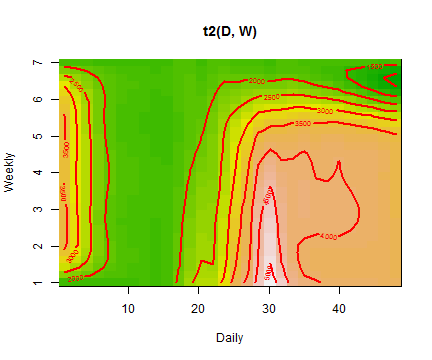
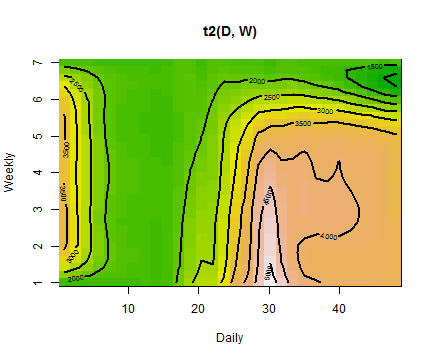
grammar checked by love

diff --git a/_posts/2017-01-20-Analyzing-double-seasonal-time-series-with-GAM.md b/_posts/2017-01-20-Analyzing-double-seasonal-time-series-with-GAM.md
@@ -1,53 +1,50 @@
 ---
-title: Doing "magic" and analyzing double seasonal time series with GAM (Generalized
-  Additive Model) in R
-author: "Peter Laurinec"
 layout: post
+title: Doing "magic" and analyzing double seasonal time series with GAM (Generalized Additive Model) in R
+author: Peter Laurinec
 published: true
 status: publish
 tags: test
-draft: no
+draft: false
 ---
  
-As I wrote in the previous post, I will continue in describing **regression** methods, which are suitable to double seasonal (or multi-seasonal) **time series**. In the previous post about [Multiple Linear Regression](https://petolau.github.io/Forecast-double-seasonal-time-series-with-multiple-linear-regression-in-R/), I showed how to use "simple" [**OLS**](https://en.wikipedia.org/wiki/Ordinary_least_squares) regression method to model **double seasonal time series** of electricity consumption and use it for accurate forecasting. Interactions between two seasonal variables were successfully used to achieve this goal. The issue of [forecasting time series from smart meters](https://petolau.github.io/Forecast-electricity-consumption-with-similar-day-approach-in-R/) was discussed in my first post.
+As I wrote in the previous post, I will continue in describing **regression** methods, which are suitable for double seasonal (or multi-seasonal) **time series**. In the previous post about [Multiple Linear Regression](https://petolau.github.io/Forecast-double-seasonal-time-series-with-multiple-linear-regression-in-R/), I showed how to use "simple" [**OLS**](https://en.wikipedia.org/wiki/Ordinary_least_squares) regression method to model **double seasonal time series** of electricity consumption and use it for accurate forecasting. Interactions between two seasonal variables were successfully used to achieve this goal. The issue of [forecasting time series from smart meters](https://petolau.github.io/Forecast-electricity-consumption-with-similar-day-approach-in-R/) was discussed in my first post.
  
-In this post (tutorial), I will fully introduce "magical" [**Generalized Additive Model**](https://en.wikipedia.org/wiki/Generalized_additive_model) (GAM) to model time series of electricity consumption. You are maybe asking, why words "*magic*" or "*magical*" are mentioned? You will see in continuation of this post :wink:
+In this post (tutorial), I will fully introduce a "magical" [**Generalized Additive Model**](https://en.wikipedia.org/wiki/Generalized_additive_model) (GAM) to model time series of electricity consumption. You may wonder, why words "*magic*" or "*magical*" are mentioned? You will get your answer later in this post :wink:
  
-Now I have to warn you that this blog post is very long. **GAM** is a very complex method and I wanted to go little bit deeply in order to introduce you this interesting regression method. I think it will be worth it and in the end of the post, I hope you will understand a theory behind **R** functions. In my opinion, **R** blogging (or any data mining or machine learning blogging) without theory interpretation of used methods has zero informative value for a reader.
+Now I have to warn you that this blog post is very long. **GAM** is a very complex method and I wanted to go little bit deeper in order to show you this interesting regression method. I think it will be worth it and in the end of the post, I hope you will understand the theory behind **R** functions. In my opinion, **R** blogging (or any data mining or machine learning blogging) without theory interpretation of used methods has zero informative value for a reader.
  
-So, let's look under the roof of the **GAM** regression method. I think you need some motivation to it, here it is!
+So, let's look under the roof of the **GAM** regression method. I think you need some motivation to it – here it is!
  
 ![](/images/motivate.png)
  
-### Theory behind Generalized Additive Model (GAM) 
+### Theory behind Generalized Additive Model (GAM)
  
-What these three words (or letters) in the name of this method mean and where it comes from? I am sure that you know something about **Linear Model** (maybe because you had read my [previous post about MLR](https://petolau.github.io/Forecast-double-seasonal-time-series-with-multiple-linear-regression-in-R/) :relaxed:). It is simple regression method which model response (dependent) variable by independent variable(s). It's solved by OLS method. So we now know what is **M** in the name. When we want to linearly model response variable which is not from [normal Gaussian distribution](https://en.wikipedia.org/wiki/Normal_distribution), for example, it can be binary (logistic regression) or discrete (Poisson) variable, we can use a generalization of the linear model - [Generalized Linear Model](https://en.wikipedia.org/wiki/Generalized_linear_model) (GLM). It's solved by [iteratively reweighted least squares](https://en.wikipedia.org/wiki/Iteratively_reweighted_least_squares) (IRLS) method. **G** in the name is also solved. **A** letter, so [Additive Model](https://en.wikipedia.org/wiki/Additive_model), means that response variable depends linearly on unknown smooth functions. In the other words, the goal is to model response variable by independent variables, which are in the form of some smooth functions. Voilà, **GAM** is created.
+What do these three words (or letters) in the name of this method mean and where does it come from? I am sure that you know something about **Linear Model** (maybe because you had read my [previous post about MLR](https://petolau.github.io/Forecast-double-seasonal-time-series-with-multiple-linear-regression-in-R/) :relaxed:). It is a simple regression method which models the response (dependent) variable by independent variable(s). It's solved by the OLS method. So now we know, what the **M** in the name means. When we want to linearly model a response variable which is not from [normal Gaussian distribution](https://en.wikipedia.org/wiki/Normal_distribution), for example, it can be binary (logistic regression) or discrete (Poisson) variable, we can use a generalization of the linear model - [Generalized Linear Model](https://en.wikipedia.org/wiki/Generalized_linear_model) (GLM). It's solved by the [iteratively reweighted least squares](https://en.wikipedia.org/wiki/Iteratively_reweighted_least_squares) (IRLS) method. The **G** in the name is also clear. The **A** letter [Additive Model](https://en.wikipedia.org/wiki/Additive_model), means that the response variable depends linearly on unknown smooth functions. In the other words, the goal is to model the response variable by independent variables, which are in the form of some smooth functions. Voilà, **GAM** is created.
  
 The GAM can be formally written as:
  
-$$g(E(y_i)) = \beta_0 + f_1(x_{i1}) + \dots + f_p(x_{ip}) + \varepsilon_i,$$
-$$y_i \sim \mbox{some exponential family distribution,}$$
+$$g(E(y_i)) = \beta_0 + f_1(x_{i1}) + \dots + f_p(x_{ip}) + \varepsilon_i, \hspace{0.1 cm} y_i \sim \mbox{some exponential family distribution,}$$
  
 where \\( i = 1, \dots, N \\), \\( g \\) is a link function (identical, logarithmic or inverse), \\( y \\) is a response variable, \\( x_1, \dots, x_p \\) are independent variables, \\( \beta_0 \\) is an intercept, \\( f_1, \dots, f_p \\) are unknown smooth functions and \\( \varepsilon \\) is an i.i.d. random error.
  
-The smooth function \\( f \\) is composed by sum of basis functions \\( b \\) and theirs corresponding regression coefficients \\( \beta \\), formally written:
+The smooth function \\( f \\) is composed by sum of basis functions \\( b \\) and their corresponding regression coefficients \\( \beta \\), formally written:
  
-$$f(x) = \sum_{i = 1}^q b_i(x)\beta_i,$$
-$$\mbox{ where } q \mbox{ is basis dimension.}$$
+$$f(x) = \sum_{i = 1}^q b_i(x)\beta_i, \mbox{ where } q \mbox{ is basis dimension.}$$
  
-Smooth functions are also called [splines](https://en.wikipedia.org/wiki/Spline_(mathematics)). [Smoothing splines](https://en.wikipedia.org/wiki/Smoothing_spline) are real functions that are piecewise-defined by polynomial functions (basis functions). The places where the polynomial pieces connect are called knots. In **GAMs**, penalized regression splines are used in order to regularize the smoothness of a spline.
+Smooth functions are also called [splines](https://en.wikipedia.org/wiki/Spline_(mathematics)). [Smoothing splines](https://en.wikipedia.org/wiki/Smoothing_spline) are real functions that are piecewise-defined by polynomial functions (basis functions). The places, where the polynomial pieces connect are called knots. In **GAMs**, penalized regression splines are used in order to regularize the smoothness of a spline.
  
-It follows that model can be written in a linear way like this:
+Therefore, the model can be written in a linear way like this:
  
 $$g(E(y)) = \beta\mathbf{X} + \varepsilon,$$
  
 where \\( \mathbf{X} \\) is a model matrix and \\( \beta \\) is a vector of regression coefficients.
  
-Than objective function to be minimized is:
+Then, the objective function to be minimized is:
  
 $$\parallel y - \beta\mathbf{X}\parallel^2 + \lambda\int_0^1 [f^{''}(x)]^2dx,$$
  
-where \\( \lambda \\) is smoothing parameter and the integral of squares of second derivatives can be written as:
+where \\( \lambda \\) is a smoothing parameter and the integral of squares of second derivatives can be written as:
  
 $$\int_0^1 [f^{''}(x)]^2dx = \beta^T\mathbf{S}\beta,$$
  
@@ -60,7 +57,7 @@ $$\hat{\beta} = (\mathbf{X}^T\mathbf{X} + \lambda\mathbf{S})^{-1}\mathbf{X}^Ty.$
 \\( \hat{\beta} \\) is called penalized least squares estimator in this case.
 The method of obtaining the estimate of the \\( \beta \\) is called Penalized Iteratively Re-weighted Least Squares (P-IRLS).
  
-Have you already enough of this post? I would no wonder...you can skip this section whenever you want, but there are next important theoretical questions to answer. For example, what kind of smoothing splines exists? Or, how to choose optimally smoothing parameter \\( \lambda \\)? How is set basis dimensions (or a number of knots)?
+There are some more important theoretical questions to answer. For example, what kind of smoothing splines exists? Or, how to choose an optimal smoothing parameter \\( \lambda \\)? How basis dimensions (or a number of knots) are set?
  
 There are several smoothing bases (splines) which are suitable for regression:
  
@@ -69,17 +66,17 @@ There are several smoothing bases (splines) which are suitable for regression:
 * cyclic cubic regression spline
 * P-splines
  
-You can then read more about them in references, which I will write up. In this post, for daily seasonality cubic regression spline, and for weekly seasonality P-splines will be used. Both types of splines are knot-based, so choosing a right number of knots will be important.
+You can read more about them in references, which I will write up. In this post, for daily seasonality cubic regression spline, and for weekly seasonality P-splines will be used. Both types of splines are knot-based, so choosing a right number of knots will be important.
  
-Next, an important procedure is to choose (estimate) optimal smoothing parameter \\( \lambda \\) and the number of basis dimensions (i.e. degrees of freedom). This can be done in **GAM** by Generalized Cross Validation score (GCV). It minimizes an equation:
+Next, an important procedure is to choose (estimate) an optimal smoothing parameter \\( \lambda \\) and the number of basis dimensions (i.e. degrees of freedom). This can be done in **GAM** by Generalized Cross Validation score (GCV). It minimizes an equation:
  
 $$\nu_g = \frac{n\sum_{i=1}^n (y_i - \hat{f}_i)^2}{[tr(\mathbf{I} - \mathbf{A})]^2},$$
  
-where \\( \mathbf{A} \\) is the influence or hat matrix. It's obvious that when lambda is near 1 then spline will be over-smoothed, in opposite side when lambda is near zero than spline isn't penalized so the method behaves like classical OLS. With a number of basis dimensions (estimated degrees of freedom), it is opposite. Higher dimension implies that fit will be less smoothed (overfit), on the other side lower dimensions implies more smoothed behavior of fitted values.
+where \\( \mathbf{A} \\) is the influence or hat matrix. It's obvious that when lambda is near 1 then spline will be over-smoothed, in opposite side when lambda is near zero than spline isn't penalized, so the method behaves like a classical OLS. With a number of basis dimensions (estimated degrees of freedom), it is opposite. Higher dimension implies that fit will be less smoothed (overfit), on the other side lower dimensions implies more smoothed behavior of fitted values.
  
 #### Interactions
  
-We are near the end of the explanation of **GAMs** theory, one more thing. As I showed in the previous blog post, **interactions** are very important part of the **regression** model for **double seasonal time series**. With **GAMs** there are four (!) main possibilities how to include them to the model. First is the most basic, like in **MLR**, the multiplication of two independent variables: \\( x_1\times x_2 \\). Second one is possibility to use smoothed function to one variable: \\( f_1(x_1)\times x_2 \\). Third one comes to use same smoothed function for both variables: \\( f(x_1, x_2) \\). Fourth one is the most complex, with GAM it is possible to use [tensor product](https://en.wikipedia.org/wiki/Tensor_product) interactions. So it is possible to use different smoothing bases for variables and penalize it in two (when we do interactions of two independent variables) different ways: \\( f_1(x_1)\otimes f_2(x_2)  \\). More nicely, tensor product interactions can be written as:
+We are almost at the end of the explanation of **GAMs** theory. One more thing. As I showed in the previous blog post, **interactions** are a very important part of the **regression** model for **double seasonal time series**. With **GAMs** there are four (!) main possibilities, how to include them to the model. First is the most basic, like in **MLR**, the multiplication of two independent variables: \\( x_1\times x_2 \\). Second one is possibility to use smoothed function to one variable: \\( f_1(x_1)\times x_2 \\). Third one comes to use same smoothed function for both variables: \\( f(x_1, x_2) \\). Fourth one is the most complex, with GAM it is possible to use [tensor product](https://en.wikipedia.org/wiki/Tensor_product) interactions. So it is possible to use different smoothing bases for variables and penalize it in two (when we do interactions of two independent variables) different ways: \\( f_1(x_1)\otimes f_2(x_2)  \\). More nicely, tensor product interactions can be written as:
  
 $$f_{12}(x_1, x_2) = \sum_{i=1}^I \sum_{j=1}^J \delta_{ij}b_{1i}(x_1)b_{2j}(x_2),$$
  
@@ -89,14 +86,14 @@ This allows for an overall [anisotropic](https://en.wikipedia.org/wiki/Anisotrop
  
 #### Resources (references)
  
-Phuuu...that's almost all of the difficult theory behind **GAM** method. I will add some more things in analytical part of this post. Honestly, it was difficult to me to find this information on the web. So if you want to read more about **GAM**, here is the list of useful links which were used in my post:
+Phew...that's almost all of the difficult theory behind **GAM** method. I will add some more things in analytical part of this post. Honestly, it was difficult for me to find this information on the web. So if you want to read more about **GAM**, here is the list of useful links which were used in my post:
  
 * Amazing book: Simon N. Wood: [Generalized Additive Models: an introduction with R](https://www.crcpress.com/Generalized-Additive-Models-An-Introduction-with-R/Wood/p/book/9781584884743), CRC Press, 2006.
 * Great blog post by Gavin Simpson: [Modelling seasonal data with GAMs](http://www.fromthebottomoftheheap.net/2014/05/09/modelling-seasonal-data-with-gam/)
 * Very helpful StackExchange (Cross Validated) [question about the intuition behind tensor product interactions](http://stats.stackexchange.com/questions/45446/intuition-behind-tensor-product-interactions-in-gams-mgcv-package-in-r)
 * This [tutorial about mixed GAMs](http://www.sfs.uni-tuebingen.de/~jvanrij/Tutorial/GAMM.html) can be helpful too.
  
-Go ahead to modeling and analyzing time series with **GAMs**
+Go ahead to modeling and analyzing time series with **GAMs**.
  
 ### Doing "magic" with GAMs for modeling time series
  
@@ -161,7 +158,7 @@ ggplot(data_r, aes(date_time, value)) +
 
 ![plot of chunk unnamed-chunk-6](/images/unnamed-chunk-6-1.png)
  
-There are possible to see two main seasonalities in plotted time series: daily and weekly. We have 48 measurements during the day and 7 days during the week so that will be our independent variables to model response variable - electricity load. Let's construct it:
+There is possible to see two main seasonalities in plotted time series: daily and weekly. We have 48 measurements during the day and 7 days during the week so that will be our independent variables to model response variable - electricity load. Let's construct it:
 
 {% highlight r %}
 N <- nrow(data_r) # number of observations in the train set
@@ -189,7 +186,7 @@ plot(gam_1, shade = TRUE)
 
 ![plot of chunk unnamed-chunk-9](/images/unnamed-chunk-9-1.png)
  
-That looks nice, right? We can see here the influence of variables to electricity load. In the left plot, the peak of the load is around 3 p.m. during the day. In the right plot, we can see that during weekends consumption logically decreases.
+That looks nice, right? We can see here the influence of variables to electricity load. In the left plot, the peak of the load is around 3 p.m. during the day. In the right plot, we can see that during weekends the consumption logically decreases.
  
 Let's use `summary` function to do the diagnostic of our first model.
 
@@ -225,8 +222,7 @@ summary(gam_1)
 ## GCV = 2.4554e+05  Scale est. = 2.3953e+05  n = 672
 {% endhighlight %}
  
-What to look at here? EDF: estimated degrees of freedom - can be interpreted like how much given variable is smoothed (higher EDF value implies more complex splines). P-values: statistical significance of given variable to response variable, tested by F-test (lower is better). \\( R^2 \\) - adjusted R-squared (higher is better). GCV: GCV score (mentioned above).
-In the summary, we can see that the R-sq. (adj) value is a little bit low...
+What to look at here? EDF: estimated degrees of freedom - can be interpreted like how much given variable is smoothed (higher EDF value implies more complex splines). P-values: statistical significance of given variable to response variable, tested by F-test (lower is better). \\( R^2 \\) - adjusted R-squared (higher is better). GCV: GCV score (mentioned above). In the summary, we can see that the R-sq. (adj) value is a little bit low...
  
 Let's plot fitted values:
 
@@ -245,9 +241,9 @@ ggplot(data = datas, aes(date_time, value, group = type, colour = type)) +
 
 ![plot of chunk unnamed-chunk-11](/images/unnamed-chunk-11-1.png)
  
-That's, of course, horrible result. We need to include interactions of two independent variables to the model.
+That is, of course, a horrible result. We need to include interactions of two independent variables to the model.
  
-One more thing before it...what is hiding behind stored `gam_1` object and used optimizer?
+One more thing before that… What is hiding behind the stored `gam_1` object and used optimizer?
 
 {% highlight r %}
 gam_1$optimizer
@@ -261,7 +257,7 @@ gam_1$optimizer
  
 Here is that "magic"! :smile:
  
-The first type of interactions will be the third one mentioned in the section about interactions, so one smoothing function to both variables is used. In the term `s(Daily, Weekly)` are also automatically included simple smoothing terms `s(Daily)` and `s(Weekly)`. Let's do it.
+The first type of interactions will be the third one mentioned in the section about interactions, so one smoothing function to both variables is used. In the term `s(Daily, Weekly)` simple smoothing terms `s(Daily)` and `s(Weekly)` are also automatically included. Let's do it.
  
 
 {% highlight r %}
@@ -288,7 +284,7 @@ summary(gam_2)$s.table
 
 {% highlight text %}
 ##                     edf   Ref.df        F p-value
-## s(Daily,Weekly) 28.7008 28.99423 334.4754       0
+## s(Daily,Weekly) 28.7008 28.99423 334.2963       0
 {% endhighlight %}
  
 Seems good too. Plot of fitted values:
@@ -308,7 +304,7 @@ ggplot(data = datas, aes(date_time, value, group = type, colour = type)) +
 
 ![plot of chunk unnamed-chunk-15](/images/unnamed-chunk-15-1.png)
  
-It's not bad, but it can be better. Now, let's try above mentioned tensor product interactions. That can be done by function `te`, basis functions can be defined as well.
+It's not bad, but it can be better. Now, let's try the above mentioned tensor product interactions. That can be done by function `te`, basis functions can be defined as well.
 
 {% highlight r %}
 gam_3 <- gam(Load ~ te(Daily, Weekly,
@@ -355,7 +351,7 @@ ggplot(data = datas, aes(date_time, value, group = type, colour = type)) +
 
 ![plot of chunk unnamed-chunk-18](/images/unnamed-chunk-18-1.png)
  
-Just a little differences in comparison to the `gam_2` model, looks like with `te` fit is more smoothed. Are we something missing? Of course! Function `te` has a default for a number of knots \\( 5^d \\), where d is a number of dimensions (variables), which is in our case little bit small. Now, I will set a number of knots to the maximal possible value `k = c(period, 7)`, what means that upper boundary for EDF (Estimated Degrees of Freedom) will be 48*7 - 1 = 335.
+Just a little differences in comparison to the `gam_2` model, looks like with `te` fit is more smoothed. Are we missing something? Of course! Function `te` has a default for a number of knots \\( 5^d \\), where d is a number of dimensions (variables), which is in our case too small. Now, I will set a number of knots to the maximal possible value `k = c(period, 7)`, what means that upper boundary for EDF (Estimated Degrees of Freedom) will be 48*7 - 1 = 335.
 
 {% highlight r %}
 gam_4 <- gam(Load ~ te(Daily, Weekly,
@@ -419,7 +415,7 @@ ggplot(data = datas, aes(date_time, value, group = type, colour = type)) +
  
 This seems much better than it was with model `gam_3`.
  
-Now I will prove my statement about the upper boundary for EDF. There is possibility to fix number of smooth basis (i.e. EDF) in smooth terms. Just use an argument `fx = TRUE`.
+Now I will prove my statement about the upper boundary for EDF. There is a possibility to fix number of smooth basis (i.e. EDF) in smooth terms. Just use an argument `fx = TRUE`.
 
 {% highlight r %}
 gam_4_fx <- gam(Load ~ te(Daily, Weekly,
@@ -453,7 +449,7 @@ summary(gam_4_fx)$s.table
  
 EDF = 335, here we are. We can see that R-squared is lower than with the model `gam_4`, it is due to that 335 is too high and we [overfitted](https://en.wikipedia.org/wiki/Overfitting) the model. It is prove to that GCV procedure is working properly. You can read more about the optimal setting (choosing) of `k` argument at [`?choose.k`](https://stat.ethz.ch/R-manual/R-devel/library/mgcv/html/choose.k.html) and of course in the book from Simon Wood.
  
-With package `mgcv` we have two more opportunities, methods, how to include tensor product interactions term - with functions `ti` and `t2`. `ti` produces a tensor product interaction, appropriate when the main effects (and any lower interactions) are also present, while `te` produces a full tensor product smooth. `t2` is an alternative function to `te` and uses different penalization method. You can read more about it in a documentation of the package `mgcv`: use `?ti` and `?t2` to see more.
+With the`mgcv` package we have two more opportunities, methods, how to include tensor product interactions term - with functions `ti` and `t2`. `ti` produces a tensor product interaction, appropriate when the main effects (and any lower interactions) are also present, while `te` produces a full tensor product smooth. `t2` is an alternative function to `te` and uses different penalization method. You can read more about it in a documentation of the package `mgcv`: use `?ti` and `?t2` to see more.
  
 So, let's try both methods in the our case (model). First, let's use `ti`:
 
@@ -544,11 +540,11 @@ summary(gam_6)$s.table
 
 
 {% highlight text %}
-##                       edf   Ref.df        F p-value
-## t2(Daily,Weekly) 98.12005 120.2345 86.70754       0
+##                       edf   Ref.df       F p-value
+## t2(Daily,Weekly) 98.12005 120.2345 84.4022       0
 {% endhighlight %}
  
-I printed also the GCV score value for the last three models, which is also a good criterion to choose optimal model among a set of fitted models. We can see that with `t2` term and corresponding model `gam_6` is GCV value lowest. It may be indicating that `gam_6` is our best model so far.
+I have also printed the GCV score value for the last three models, which is also a good criterion to choose optimal model among a set of fitted models. We can see that with `t2` term and corresponding model `gam_6` the GCV value is the lowest. It may be indicating that `gam_6` is our best model so far.
  
 Other model selection criterion, which is widely used in statistics, is AIC ([Akaike Information Criterion](https://en.wikipedia.org/wiki/Akaike_information_criterion)). Criterion has equation \\( AIC = 2k - 2\ln (\hat{L}) \\), where k is the number of parameters to be estimated and \\(\hat{L}\\) is the maximized value of the likelihood function of the model. So lower values are better for AIC. Let's look at them for our three models:
 
@@ -565,7 +561,7 @@ AIC(gam_4, gam_5, gam_6)
 ## gam_6 100.1200 8868.628
 {% endhighlight %}
  
-The lowest value is in the `gam_6` model, so again it's winning model. Let's again look at fitted values to be sure that everything is OK.
+The lowest value is in the `gam_6` model, so again it's the winning model. Let's again look at fitted values to be sure that everything is OK.
 
 {% highlight r %}
 datas <- rbindlist(list(data_r[, .(value, date_time)],
@@ -604,8 +600,8 @@ gam.check(gam_4)
 ## Basis dimension (k) checking results. Low p-value (k-index<1) may
 ## indicate that k is too low, especially if edf is close to k'.
 ## 
-##                     k'   edf k-index p-value
-## te(Daily,Weekly) 335.0 119.4     1.2       1
+##                      k'    edf k-index p-value
+## te(Daily,Weekly) 335.00 119.41    1.19       1
 {% endhighlight %}
  
 
@@ -628,12 +624,12 @@ gam.check(gam_6)
 ## indicate that k is too low, especially if edf is close to k'.
 ## 
 ##                      k'    edf k-index p-value
-## t2(Daily,Weekly) 335.00  98.12    1.19       1
+## t2(Daily,Weekly) 335.00  98.12    1.16       1
 {% endhighlight %}
  
-The function `gam.check` makes also output to the console of more useful information. We can see again that models are very similar, just in histograms can be seen some differences, but it's also insignificant.
+The function `gam.check` makes also output to the console of more useful information. We can see again that models are very similar, just in histograms some differences can be seen, but it's also insignificant.
  
-We didn't use so far default `plot` function to `gam` object for models with tensor product interactions. Let's use it and explore what it brings us.
+We didn't use so far the default `plot` function to `gam` object for models with tensor product interactions. Let's use it and explore what it brings us.
 
 {% highlight r %}
 layout(matrix(1:2, nrow = 1))
@@ -643,45 +639,43 @@ plot(gam_6, rug = FALSE, se = FALSE, n2 = 80, main = "gam n.6 with t2()")
 
 ![plot of chunk unnamed-chunk-28](/images/unnamed-chunk-28-1.png)
  
-It's nice contour line plot. On axes are our independent variables, contour lines and corresponding numbers on them represents effects of ind. variables to the response variable. Now is possible to see some little differences. The model `gam_6` with `t2` have more "wavy" contours. So it implies that it more adapts to response variable and smoothing factor is lower. In the next parts of the post, the model `gam_6` will be used for the analysis.
+It's a nice contour line plot. On axes are our independent variables, contour lines and corresponding numbers on them represents effects of ind. variables to the response variable. Now it is possible to see some little differences. The model `gam_6` with `t2` have more "wavy" contours. So it implies that it adapts more to response variable and smoothing factor is lower. In the next parts of the post, the model `gam_6` will be used for the analysis.
  
 Another great feature of the package `mgcv` is the plotting function `vis.gam`. It makes 3D view (or 2D) of surface of fitted values according to independent variables. Let's look at it.
 
 {% highlight r %}
-vis.gam(gam_6, theta = 35, phi = 32, ticktype = "detailed",
-        color = "topo", n.grid = 50, main = "t2(D, W)", zlab = "")
+vis.gam(gam_6, n.grid = 50, theta = 35, phi = 32, zlab = "",
+        ticktype = "detailed", color = "topo", main = "t2(D, W)")
 {% endhighlight %}
 
 ![plot of chunk unnamed-chunk-29](/images/unnamed-chunk-29-1.png)
  
-We can see that highest peak is when the Daily variable has values near 30 and the Weekly variable has value 1 (it is a Monday).
+We can see that the highest peak is when the Daily variable has values near 30 and the Weekly variable has value 1 (it is a Monday).
  
 2D view, contour lines type of plot, can be visualized too. Just set argument `plot.type = "contour"`.
 
 {% highlight r %}
-vis.gam(gam_6, plot.type = "contour", color = "terrain",
-        lwd = 2, main = "t2(D, W)")
+vis.gam(gam_6, main = "t2(D, W)", plot.type = "contour",
+        color = "terrain", contour.col = "black", lwd = 2)
 {% endhighlight %}
 
 ![plot of chunk unnamed-chunk-30](/images/unnamed-chunk-30-1.png)
  
-Again we can see that highest value of electricity load is on Monday at 3:00 pm, it is very similar till Thursday, then load decreasing (weekends).
+Again we can see that the highest value of electricity load is on Monday at 3:00 pm, it is very similar till Thursday, then the load is decreasing (weekends).
  
 Another interesting contribution to the **time series regression model** can be an inclusion of [**autoregressive model**](https://en.wikipedia.org/wiki/Autoregressive_model) for serially correlated errors. Let's look at it.
  
 ### Autoregressive models and GAMS
  
-**GAM** or **MLR** have assumptions in a model that errors (residuals) are identically and independently distributed (i.i.d.). In the case of the time series regression, it is very strong assumption, which is here logically not fulfilled. Present time series values are highly correlated with past values, so errors of the model will be correlated too. This phenomenon is called an [autocorrelation](https://en.wikipedia.org/wiki/Autocorrelation). This implies that estimated regression coefficients and residuals of a model might be negatively biased, which also implies that previously computed p-values of statistical tests or confidence intervals are wrong.
+**GAM** or **MLR** have assumptions in a model that errors (residuals) are identically and independently distributed (i.i.d.). In the case of the time series regression, it is very strong assumption, which is here, logically, not fulfilled. Present time series values are highly correlated with past values, so errors of the model will be correlated too. This phenomenon is called an [autocorrelation](https://en.wikipedia.org/wiki/Autocorrelation). This implies that estimated regression coefficients and residuals of a model might be negatively biased, which also implies that previously computed p-values of statistical tests or confidence intervals are wrong.
  
-How can be this situation handled? By inclusion of autoregressive model (AR) for errors in our model. So we have the
-model with the term for errors like this:
+How can we handle this situation? By inclusion of autoregressive model (AR) for errors in our model. So we have the model with the term for errors like this:
  
 $$y_i = \beta\mathbf{X} + \varepsilon_i, \hspace{0.2cm} \varepsilon_i = \phi\varepsilon_{i-1} + v_i,$$
  
 where the second equation is a classical AR(1) process and \\( \phi \\) is an unknown autoregressive coefficient to be estimated. Errors can be also nested within a week, which is in our case more appropriate, because of the double seasonal character of our time series. You can read more about estimation and modeling of this kind of models in an excellent book by [Box, Jenkins, and Reinsel: Time Series Analysis](http://onlinelibrary.wiley.com/book/10.1002/9781118619193).
  
-It's possible to add correlation term for errors with function `gamm`, which stands for **GAM** mixture models. It calls `lme` function from package `nlme`. Now, train basic model with function `gamm` and a another model with AR(1) process nested within a week - just add this argument to `gamm` function: `correlation = corARMA(form = ~ 1|Weekly, p = 1)`.
- 
+It's possible to add correlation term for errors with function `gamm`, which stands for **GAM** mixture models. It calls the `lme` function from package `nlme`. Now, train basic model with function `gamm` and an another model with AR(1) process nested within a week - just add this argument to `gamm` function: `correlation = corARMA(form = ~ 1|Weekly, p = 1)`.
 
 {% highlight r %}
 gam_6_ar0 <- gamm(Load ~ t2(Daily, Weekly,
@@ -702,7 +696,6 @@ gam_6_ar1 <- gamm(Load ~ t2(Daily, Weekly,
              method = "REML")
 {% endhighlight %}
  
- 
 We can use an [ANOVA](https://en.wikipedia.org/wiki/Analysis_of_variance) to compare these two models and pick the right one.
 
 {% highlight r %}
@@ -717,7 +710,7 @@ anova(gam_6_ar0$lme, gam_6_ar1$lme)
 ## gam_6_ar1$lme     2 11 8751.361 8800.908 -4364.680 1 vs 2 321.1644  <.0001
 {% endhighlight %}
  
-AIC value of the model with AR(1) term is lower, so seems better, also p-value is very low which indicates that second model is better to choose.
+AIC value of the model with AR(1) term is lower, so it seems better, also p-value is very low which indicates that second model is better to choose.
  
 Estimated \\( \phi \\) coefficient of AR(1) process can be seen here:
 
@@ -729,14 +722,14 @@ intervals(gam_6_ar1$lme, which = "var-cov")$corStruct
 
 {% highlight text %}
 ##         lower      est.     upper
-## Phi 0.6363081 0.7107914 0.7721448
+## Phi 0.6362993 0.7107914 0.7721507
 ## attr(,"label")
 ## [1] "Correlation structure:"
 {% endhighlight %}
  
 Value 0.71 is pretty high, which indicates a strong dependency on previous values of errors (lags).
  
-Let's look now on another diagnostic for these two models. Plot of values of a [partial autocorrelation function](https://en.wikipedia.org/wiki/Partial_autocorrelation_function):
+Now let's look another diagnostic for these two models. Plot of values of a [partial autocorrelation function](https://en.wikipedia.org/wiki/Partial_autocorrelation_function):
 
 {% highlight r %}
 layout(matrix(1:2, ncol = 2))
@@ -746,7 +739,7 @@ pacf(resid(gam_6_ar1$lme), lag.max = 48, main = "pACF of gam n.6 with AR(1)")
 
 ![plot of chunk unnamed-chunk-34](/images/unnamed-chunk-34-1.png)
  
-Am I blind, or I can't see a significant difference between these two plots and corresponding values of pACF. Optimal values of pACF should be under dashed blue lines, so it isn't this scenario.
+Am I blind, or I can't see a significant difference between these two plots and corresponding values of pACF? Optimal values of pACF should be under dashed blue lines, so it isn't this scenario.
  
 Let's make another useful visualization of residuals of two models to confirm uncertainty about correctness of model with AR(1).
 
@@ -774,7 +767,7 @@ ggplot(data = datas,
 
 ![plot of chunk unnamed-chunk-35](/images/unnamed-chunk-35-1.png)
  
-Here we are. The model with an AR(1) process has residuals at low fitted values somehow correlated, which is not good. What now? I have to be honest, I can't explain why this interesting thing happened. So, I would be very happy when someone guides me to the right direction and writes some notes to the discussion, it would really help. One more note about the inclusion of AR(1) model to **GAM** or **MLR**. It didn't help in the meaning of forecast accuracy, I made a lot of experiments, but MAPE was higher than with models without AR(1). 
+Here we are. The model with an AR(1) process has residuals at low fitted values somehow correlated, which is not good. What now? I have to be honest, I can't explain why this interesting thing happened. So, I would be very happy when someone guides me to the right direction and writes some notes to the discussion, it would really help. One more note about the inclusion of AR(1) model to **GAM** or **MLR**. It didn't help in the meaning of forecast accuracy, I made a lot of experiments, but MAPE was higher than with models without AR(1).
  
 ### Animations and conclusions
  
@@ -784,7 +777,7 @@ I will end this post with a visualization analysis of the model `gam_6`. I will 
 2. Fitted values vs. residuals of GAM.
 3. Forecast for one week ahead vs. real consumption plus forecast accuracy in MAPE.
  
-Animations were created by functions from package `grid` to layout ggplots to one figure, and function `saveGIF` from package `animation` to create final GIF. Here there are:
+Animations were created by functions from package `grid` to layout ggplots to one figure, and function `saveGIF` from package `animation` to create the final GIF. Here there are:
  
 ![](/images/industry_1_dashboard.gif)
  
@@ -798,7 +791,7 @@ Another animation, which I created, is a 3D visualization of fitted values like 
  
 We can compare it with the first dashboard because again it's time series from commercial properties. EDF is also printed to the title of GIF for reasons to see how it changes depending on the behavior of electricity consumption.
  
-With this, I would like to end main part of this tutorial and conclude it with some remarks.
+With this, I would like to end the main part of this tutorial and conclude it with some remarks.
  
 In the beginning of the post, motivation and the theory behind GAM method was introduced. Next, the analytical (**magical**) part continued with explaining various features of the package `mgcv`. Different types of **interactions** were showed and analyzed. Next, consideration about the correctness of an autoregressive model for errors was discussed. In the end, I tried to make a big view of a behavior of **GAMs** by animations of its performance on **double seasonal time series**.
  
@@ -819,4 +812,4 @@ Disadvantages:
  
 In the future post, I want to focus on some machine learning method like Support Vector Regression or Regression Trees with alongside of grid search for tuning parameters.
  
-The script for a creation of the whole tutorial is located on [my GitHub repository](https://github.com/PetoLau/petolau.github.io/tree/master/_Rscripts). I would like to encourage you to add any feedback to the discussion below, thank you for reading this long post.
+The script for a creation of the whole tutorial is located on [my GitHub repository](https://github.com/PetoLau/petolau.github.io/tree/master/_Rscripts). I would like to encourage you to add any feedback to the discussion below. Thank you for reading this long post.
